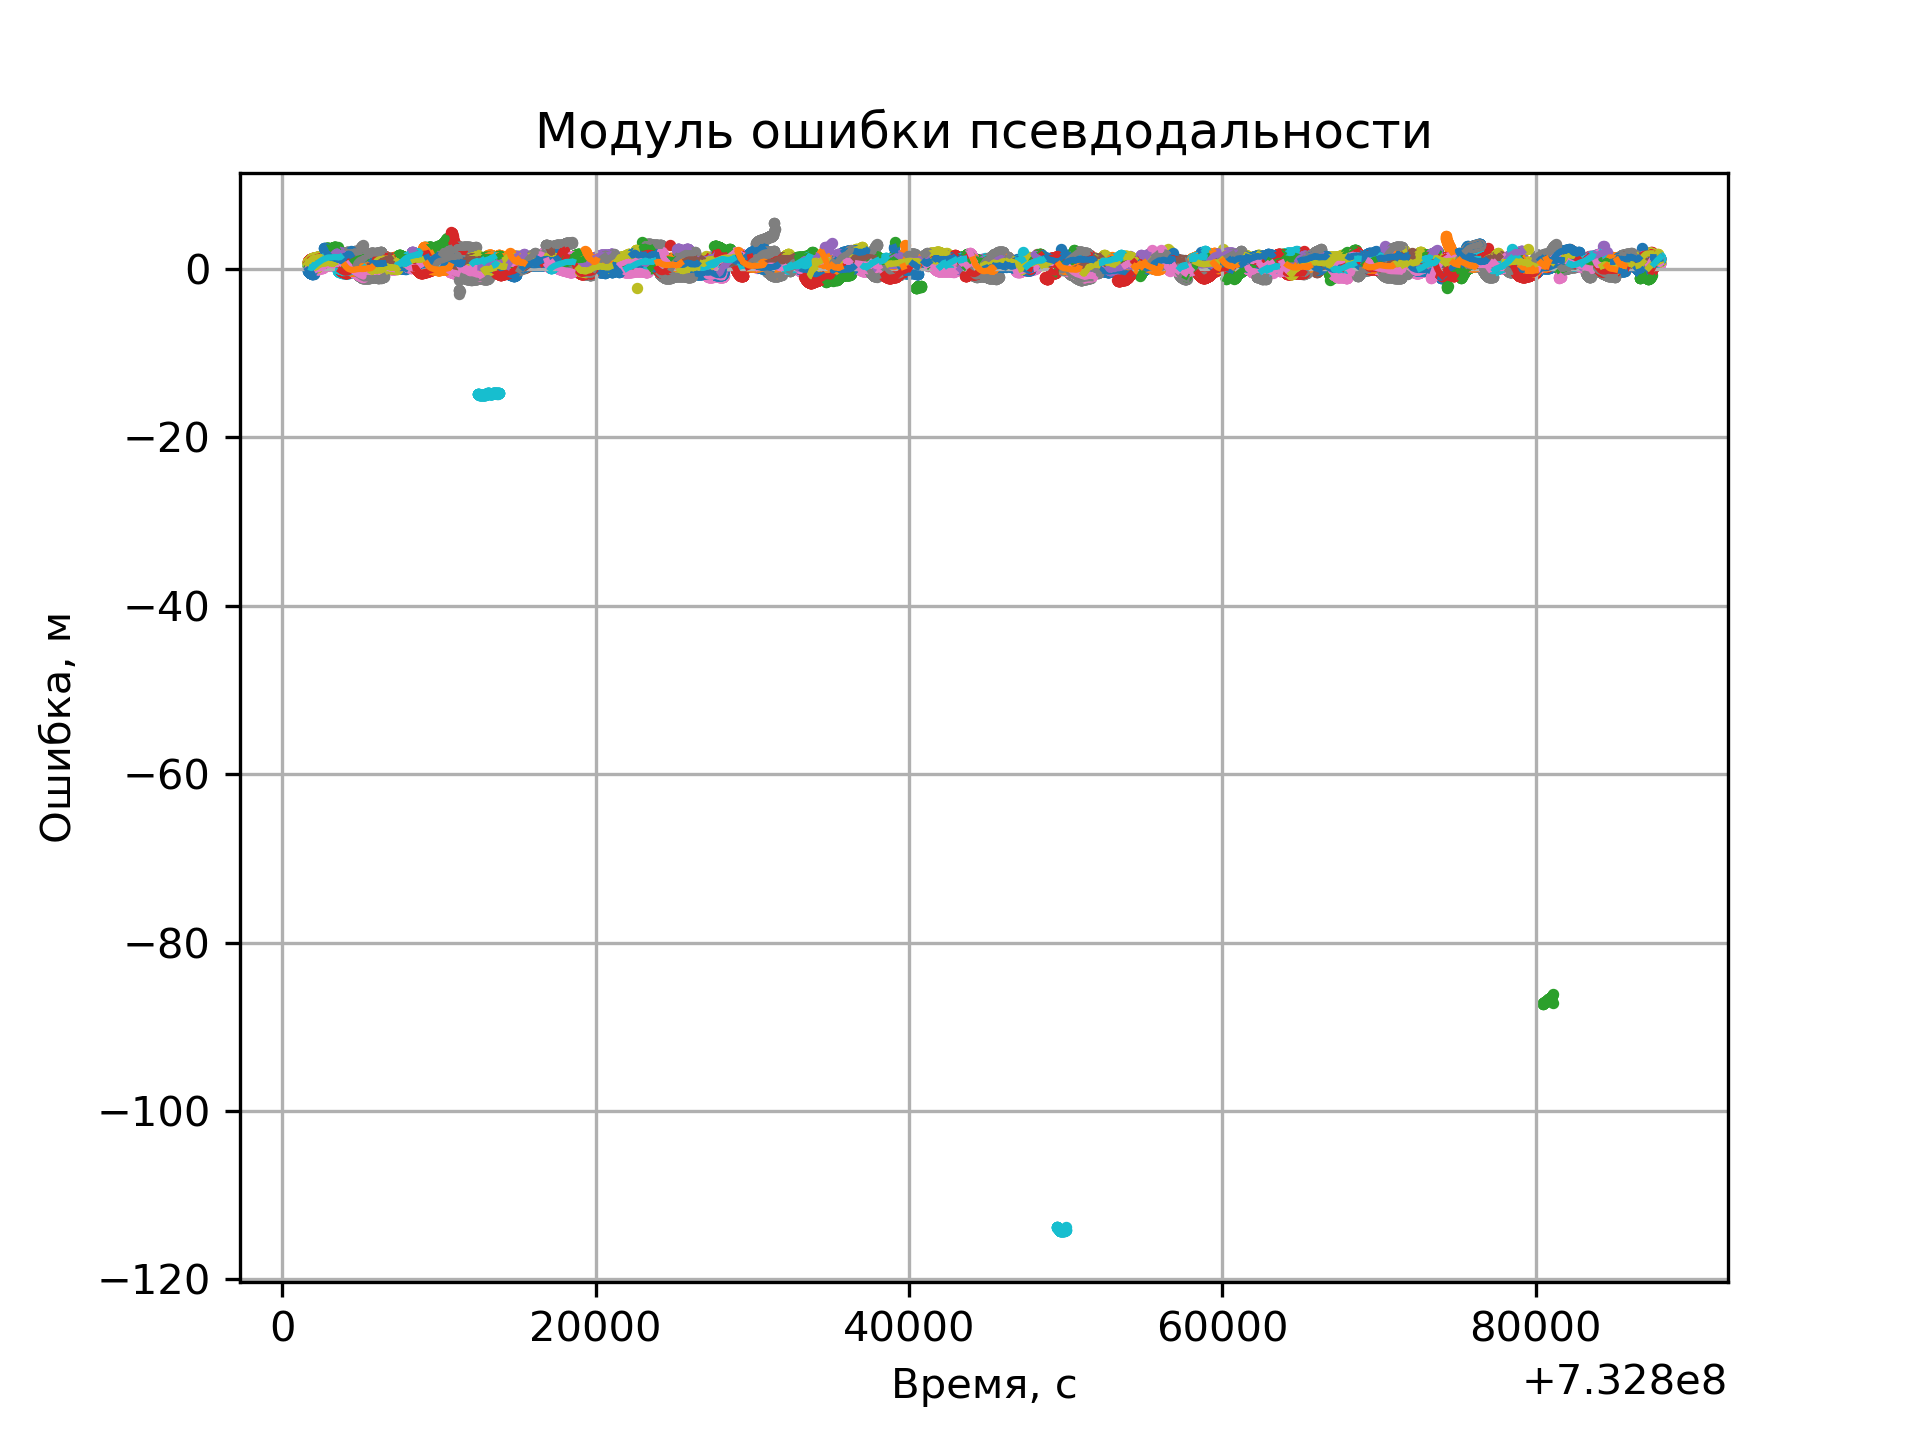
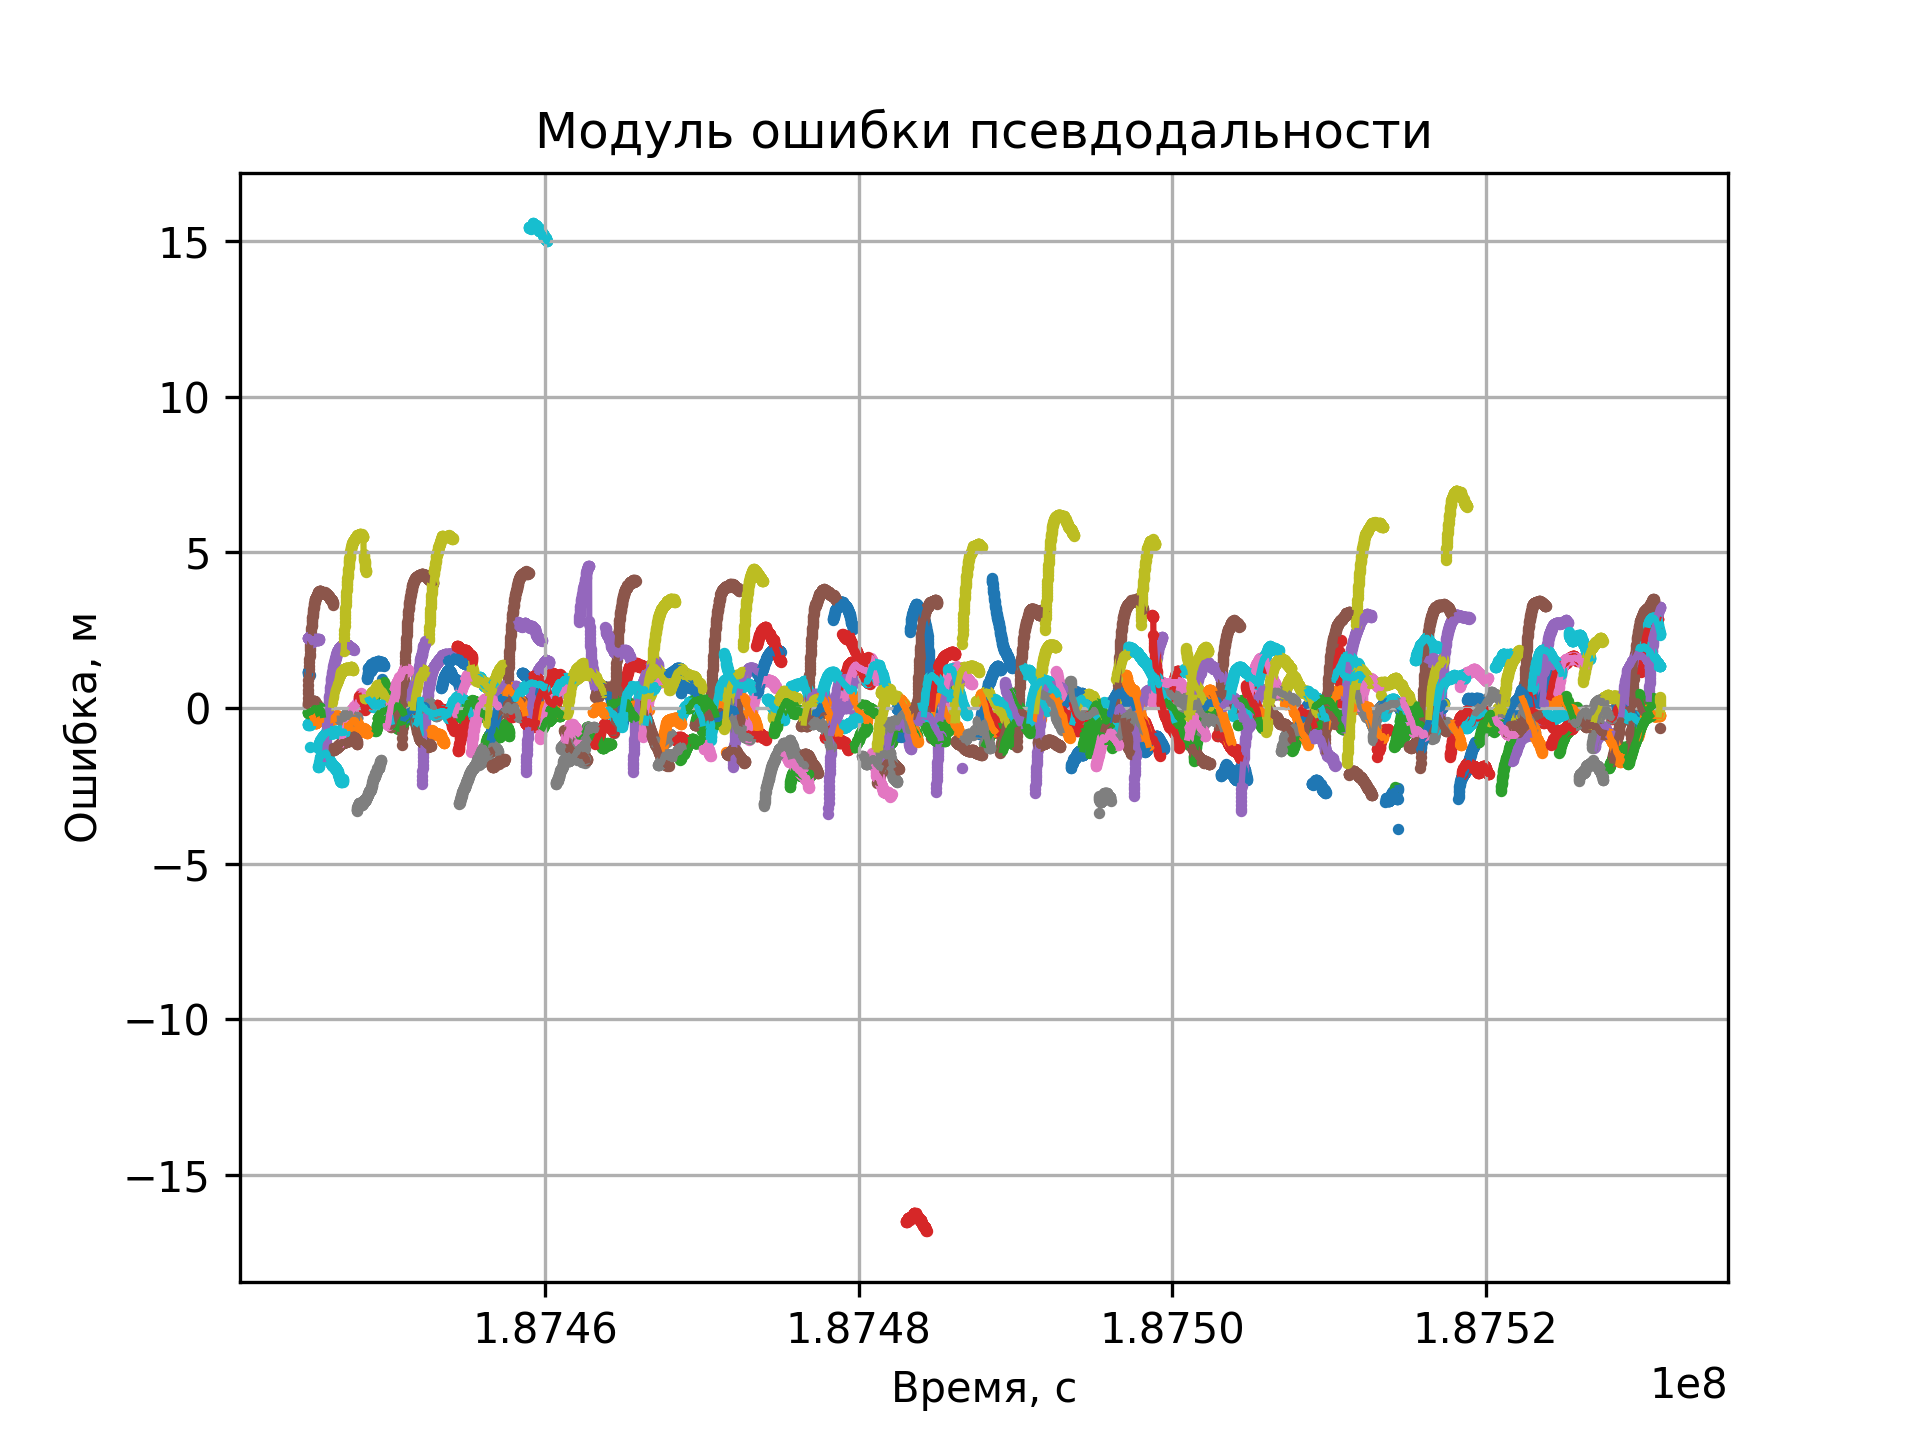
almost rel

diff --git a/src/SatNavRel.cpp b/src/SatNavRel.cpp
@@ -1,9 +1,13 @@
 #include "SatNavRel.hpp"
 #include "SatNav.hpp"
 
-SatNavRel::SatNavRel(SatNav& passive, SatNav& active) : pas(passive), act(active) {}
+SatNavRel::SatNavRel(SatNav& passive, SatNav& active) : pas(passive), act(active) {
+    pas.solve(); // решать одновременно?
 
-void SatNavRel::solve_relative(char et = '0', int ti = 0, int tf = 0) {
+    // тру стейтс
+}
+
+void SatNavRel::solve_relative(char et, int ti, int tf) {
 
     error_type = et;
 
@@ -45,7 +49,7 @@ void SatNavRel::solve_relative(char et = '0', int ti = 0, int tf = 0) {
         //     }
         // }
 
-        // solution_states.push_back(solution);
+        solution_states.push_back(solution);
     }
    
     error_type = '0';
@@ -64,6 +68,7 @@ SolutionState SatNavRel::calculate_solution(const RefinedMeasurementGroupped& re
     SolutionState solution;
     solution.time = ref_mg.time;
 
+    std::vector<double> solution_pas = pas.get_solution_state_at(ref_mg.time).position;
     std::vector<double> dPR;
     std::vector<std::vector<double>> X;
     size_t n = 0;
@@ -81,10 +86,65 @@ SolutionState SatNavRel::calculate_solution(const RefinedMeasurementGroupped& re
 
     for (size_t i = 0; i < n; i++) {
         size_t j = i < n - 1 ? i + 1 : 0;
+        std::vector<double> DXi = X[i] - solution_pas;
+        std::vector<double> DXj = X[j] - solution_pas;
+        double Di = abs(DXi);
+        double Dj = abs(DXj);
 
-        U[i] = 0;
+        //delta
+
+        U[i] = dPR[i] - dPR[j];
         for (size_t k = 0; k < 3; k++) {
-            B.at(i, k) = 0;
+            B.at(i, k) = DXi[k] / Di -  DXj[k] / Dj;
         }
     }
+
+    Matrix B1(3, 3);
+    try {
+        B1 = (B.transpose() * B).inverse();
+    } catch (std::runtime_error re) {
+        solution.is_solved = false;
+        solution.failure_type = 'I';
+        return solution;
+    }
+
+    // GDOP
+
+    std::vector<double> dX = B1 * B.transpose() * U;
+
+    std::cout << abs(dX) << std::endl;
+
+    solution.position = dX;
+    solution.is_solved = true;
+
+    return solution;
+}
+
+const State& SatNavRel::get_true_state_at(int time) const {
+    return *get_true_state_iterator(time);
+}
+
+const std::vector<SolutionState>& SatNavRel::get_solution_states() const {
+    return solution_states;
+}
+
+std::vector<State>::const_iterator SatNavRel::get_true_state_iterator(int time) const {
+    size_t n = true_states.size();
+
+    size_t lo = 0, hi = n - 1;
+    while (lo <= hi) {
+        size_t mid = lo + (hi - lo) / 2;
+
+        if (true_states[mid].time == time) {
+            return true_states.cbegin() + mid;
+        }
+
+        if (true_states[mid].time < time) {
+            lo = mid + 1;
+        } else {
+            hi = mid - 1;
+        }
+    }
+
+    return true_states.cend();
 }

diff --git a/src/main.cpp b/src/main.cpp
@@ -1,10 +1,12 @@
 #include "GPSHandler.hpp"
 #include "SatNav.hpp"
 #include "Plotter.hpp"
+#include "PlotterRel.hpp"
 
 
 int main() {
-    // GPSHandler handler = GPSHandler("brdc2940.19n"); SatNav problem = SatNav("GNV1B_2005-12-10_A_02.dat", "GPS1B_2005-12-10_A_02.dat", handler);
+    // GPSHandler handler = GPSHandler("brdc3440.05n"); SatNav problem = SatNav("GNV1B_2005-12-10_A_02.dat", "GPS1B_2005-12-10_A_02.dat", handler);
+    // GPSHandler handler = GPSHandler("brdc3440.05n"); SatNav problem = SatNav("GNV1B_2005-12-10_B_02.dat", "GPS1B_2005-12-10_B_02.dat", handler);
     // GPSHandler handler = GPSHandler("brdc2940.19n"); SatNav problem = SatNav("GNV1B_2019-10-21_C_04.txt", "GPS1B_2019-10-21_C_04.txt", handler);
     // GPSHandler handler = GPSHandler("brdc1410.20n"); SatNav problem = SatNav("GNV1B_2020-05-20_C_04.txt", "GPS1B_2020-05-20_C_04.txt", handler);
     // GPSHandler handler = GPSHandler("brdc0890.21n"); SatNav problem = SatNav("GNV1B_2021-03-30_C_04.txt", "GPS1B_2021-03-30_C_04.txt", handler);
@@ -12,9 +14,16 @@ int main() {
     GPSHandler handler = GPSHandler("brdc0820.23n"); SatNav problem = SatNav("GNV1B_2023-03-23_C_04.txt", "GPS1B_2023-03-23_C_04.txt", handler);
     // GPSHandler handler = GPSHandler("brdc0940.24n"); SatNav problem = SatNav("GNV1B_2024-04-03_C_04.txt", "GPS1B_2024-04-03_C_04.txt", handler);
 
-    Plotter plotter(problem);
+    Plotter plotter(problem, 0, 0); // доделать даблы
     plotter.plot_errors_norm();
-    plotter.plot_errors_pr();
+    // plotter.plot_errors_pr();
+
+    // GPSHandler handler = GPSHandler("brdc3440.05n"); 
+    // SatNav problemA = SatNav("GNV1B_2005-12-10_A_02.dat", "GPS1B_2005-12-10_A_02.dat", handler);
+    // SatNav problemB = SatNav("GNV1B_2005-12-10_B_02.dat", "GPS1B_2005-12-10_B_02.dat", handler);
+    // SatNavRel problem_rel(problemA, problemB);
+    // PlotterRel plotter(problem_rel);
+    // plotter.plot_errors_norm(0, 5000);
 
     return 0;
 }

diff --git a/src/PlotterRel.cpp b/src/PlotterRel.cpp
@@ -1,0 +1,50 @@
+#include "PlotterRel.hpp"
+
+PlotterRel::PlotterRel(const SatNavRel& sn, unsigned ti, unsigned tf) : problem(sn), ti(ti), tf(tf) {
+    problem.solve_relative('0', ti, tf);
+}
+
+void PlotterRel::plot_errors_norm(double ymin, double ymax) {
+    std::string filename = "rel-norm";
+    std::ofstream file;
+    file.open("../results/" + filename + ".csv", std::fstream::out);
+
+    file << "Модуль расстояния" << '\t' << "Время, с" << '\t' << "Ошибка, м" << std::endl;
+    file << ymin << '\t' << ymax << std::endl;
+    
+    for (const auto& ss : problem.get_solution_states()) {
+        if (!ss.is_solved) continue;
+
+        unsigned time = ss.time;
+
+        double ss_norm = abs(ss.position);
+
+        // переписать через тру стейт проблемы
+        double ts_norm = abs(problem.pas.get_true_state_at(time).position - problem.act.get_true_state_at(time).position);
+
+        file << time << sep << ss_norm << sep << ts_norm << std::endl;
+    }
+
+    file.close();
+
+    run_py_plotter(filename);
+}
+
+void PlotterRel::run_py_plotter(const std::string& arg) const {
+    std::string command = "python3 ../scripts/plotter.py " + arg;
+    system(command.c_str());
+}
+
+std::vector<double> PlotterRel::ECEF_to_geographycal(const std::vector<double>& position) {
+    double latitude, longitude;
+
+    double x = position[0];
+    double y = position[1];
+    double z = position[2];
+    double r = sqrt(x * x + y * y + z * z);
+
+    longitude = atan2(x, y) * 180.0 * M_1_PI;
+    latitude = asin(z / r) * 180.0 * M_1_PI;
+
+    return {longitude, latitude};  
+}

diff --git a/src/SatNav.cpp b/src/SatNav.cpp
@@ -25,7 +25,7 @@ SatNav::SatNav(const SatNav& sn) : handler(sn.handler),
                                    true_states(sn.true_states), 
                                    raw_measurements_groupped(sn.raw_measurements_groupped) { }
 
-void SatNav::solve(char et, int ti, int tf) {
+void SatNav::solve(char et, double ti, double tf) {
     logger.log("Beginning to solve..."); // доделать логгер
 
     error_type = et;
@@ -184,8 +184,8 @@ SolutionState SatNav::calculate_solution(const RefinedMeasurementGroupped& ref_m
             double D = abs(DX);
 
             U[i] = PR[i] - D;
-            for (size_t j = 0; j < 3; j++) {
-                B.at(i, j) = DX[j] / D;
+            for (size_t k = 0; k < 3; k++) {
+                B.at(i, k) = DX[k] / D;
             }
         }
         
@@ -221,7 +221,6 @@ SolutionState SatNav::calculate_solution(const RefinedMeasurementGroupped& ref_m
         c_tau = dX_c_tau;
     }
 
-    solution.time = ref_mg.time;
     solution.position = x;
     solution.is_solved = true;
 
@@ -316,7 +315,7 @@ const std::vector<State>& SatNav::get_true_states() const {
     return true_states;
 }
 
-const std::vector<SolutionState> &SatNav::get_solution_states() const {
+const std::vector<SolutionState>& SatNav::get_solution_states() const {
     return solution_states;
 }
 

diff --git a/src/SatNav.hpp b/src/SatNav.hpp
@@ -19,7 +19,7 @@ public:
     SatNav(const std::string& gnv_filename, const std::string& gps_filename, const GPSHandler& handler);
     SatNav(const SatNav& sn);
 
-    void solve(char et = '0', int ti = 0, int tf = 0);
+    void solve(char et = '0', double ti = 0, double tf = 0);
 
     const State& get_true_state_at(int time) const;
     const SolutionState& get_solution_state_at(int time) const;
@@ -41,7 +41,7 @@ private:
     std::vector<unsigned> check_low(const SolutionState& solution, const RefinedMeasurementGroupped& ref_mg);
     RefinedMeasurement hatch_filter(const RefinedMeasurement& raw_m);
 
-    std::vector<State>::const_iterator get_true_state_iterator(int time) const;
+    std::vector<State>::const_iterator get_true_state_iterator(int time) const; // темплейт?
     std::vector<SolutionState>::const_iterator get_solution_state_iterator(int time) const;
     std::vector<RawMeasurementGroupped>::const_iterator get_raw_measurement_groupped_iterator(int time) const;
 

diff --git a/src/Plotter.hpp b/src/Plotter.hpp
@@ -11,7 +11,7 @@
 
 class Plotter {
 public:
-    Plotter(const SatNav& sn, unsigned ti = 0, unsigned tf = 0);
+    Plotter(const SatNav& sn, double ti = 0, double tf = 0);
     void plot_errors_norm(double ymin = 0, double ymax = 0);
     void plot_errors_pr(double ymin = 0, double ymax = 0);
     void plot_errors_by_type(char error_type, double ymin = 0, double ymax = 0);
@@ -23,7 +23,7 @@ private:
     void run_py_plotter(const std::string& arg) const;
     void run_py_mapper(const std::string& arg) const;
 
-    std::vector<double> ECEF_to_geographycal(const std::vector<double>& position); // сделать отдельную структура гео координат
+    std::vector<double> ECEF_to_geographycal(const std::vector<double>& position); // сделать отдельную структуру гео координат?
 
     SatNav problem;
     SatNav problem_copy;

diff --git a/src/SatNavRel.hpp b/src/SatNavRel.hpp
@@ -20,13 +20,20 @@ public:
 
     void solve_relative(char et = '0', int ti = 0, int tf = 0);
 
+    const State& get_true_state_at(int time) const;
+    const std::vector<SolutionState>& get_solution_states() const;
+
+    // должно быть приватным
+    SatNav& pas;
+    SatNav& act;
+
 private:
     RefinedMeasurement refine_raw(const RawMeasurement& raw_m_pas, const RawMeasurement& raw_m_act);
     SolutionState calculate_solution(const RefinedMeasurementGroupped& ref_mg) const;
 
-    SatNav& pas;
-    SatNav& act;
+    std::vector<State>::const_iterator get_true_state_iterator(int time) const;
 
+    std::vector<State> true_states;
     std::vector<SolutionState> solution_states;
     std::vector<RefinedMeasurementGroupped> refined_measurements_groupped;
 

diff --git a/src/PlotterRel.hpp b/src/PlotterRel.hpp
@@ -1,0 +1,28 @@
+#pragma once
+
+#include <fstream>
+#include <cstdlib>
+
+#include <string>
+
+#include "LinAlg.hpp"
+#include "SatNav.hpp"
+
+// Объединить в один класс через темплейт?
+
+class PlotterRel {
+public:
+    PlotterRel(const SatNavRel& sn, unsigned ti = 0, unsigned tf = 0);
+    void plot_errors_norm(double ymin = 0, double ymax = 0);
+
+private:
+    void run_py_plotter(const std::string& arg) const;
+
+    std::vector<double> ECEF_to_geographycal(const std::vector<double>& position);
+
+    SatNavRel problem;
+
+    char sep = ',';
+    
+    unsigned ti, tf;
+};

diff --git a/src/Plotter.cpp b/src/Plotter.cpp
@@ -1,6 +1,6 @@
 #include "Plotter.hpp"
 
-Plotter::Plotter(const SatNav& sn, unsigned ti, unsigned tf) : problem(sn), problem_copy(sn), ti(ti), tf(tf) {
+Plotter::Plotter(const SatNav& sn, double ti, double tf) : problem(sn), problem_copy(sn), ti(ti), tf(tf) {
     problem.solve('0', ti, tf);
 }
 
